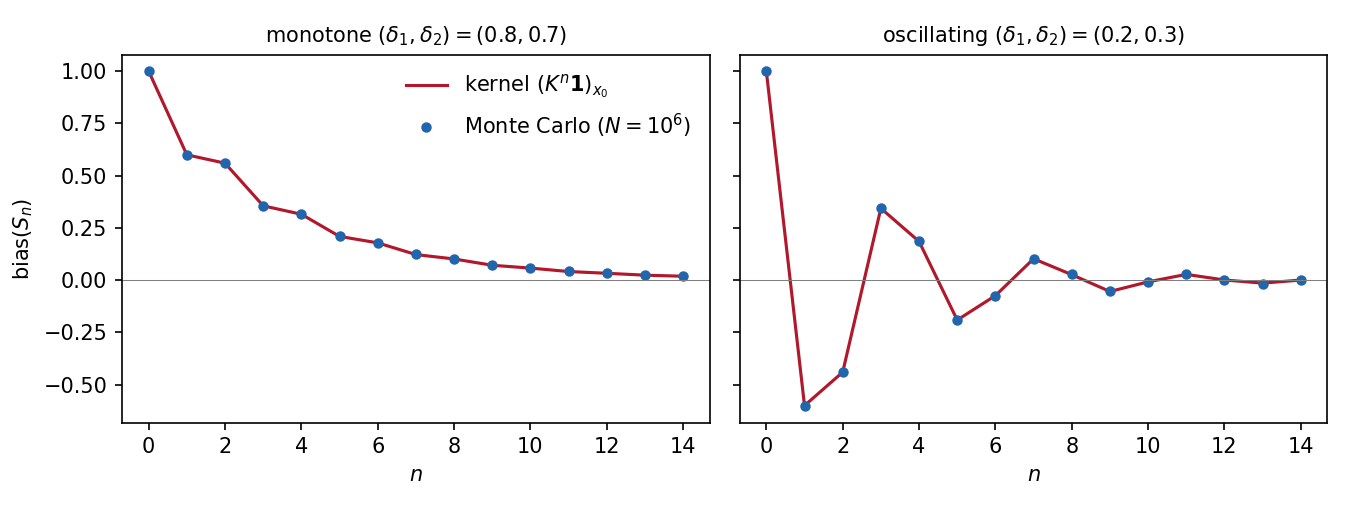
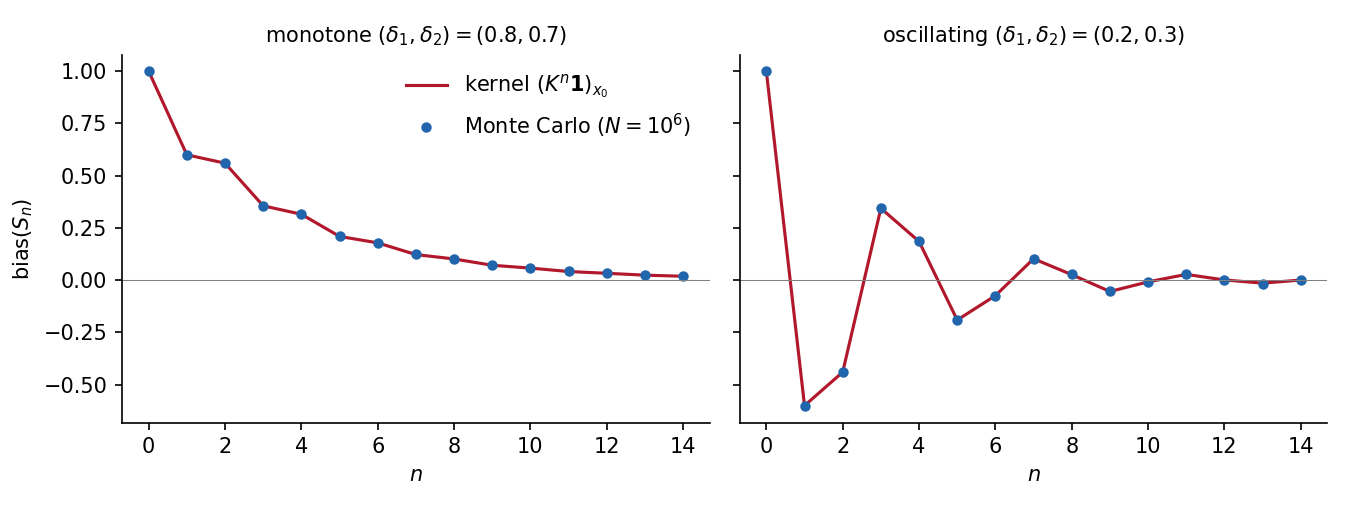
update docs

Changed region(s): [[0.0933, 0.0882, 0.5289, 0.1176], [0.56, 0.0882, 0.9644, 0.1176]]

diff --git a/scripts/prove_rate.py b/scripts/prove_rate.py
@@ -1,36 +1,39 @@
-"""Exact check that max |bias(S_n)| / beta^2 = 1 (default n=3; n=4 is too slow with sympy.solve) over all binary chains with next-bit bias <= beta.
-Param.: d1=(1+b*u)/2, d2=(1+b*v)/2 with b=beta in [0,1], u,v in [-1,1]. bias(S_n) = (K^n 1)_{x0} is a polynomial,
-divisible by b^2; a polynomial on a box attains its extrema at stationary points of the faces/edges/corners (exact enumeration)."""
-import itertools
+"""Exact proof that max |bias(S_n)| = beta^2 for n=3,4 over binary chains with next-bit bias <= beta.
+Param.: d1=(1+b*u)/2, d2=(1+b*v)/2, b=beta in [0,1], u,v in [-1,1]; bias(S_n)=(K^n 1)_{x0} is divisible by b^2.
+f = bias/b^2 is a polynomial; 1-f >= 0 and 1+f >= 0 on the cube is certified by nonnegative Bernstein
+coefficients (exact rationals, adaptive subdivision); f = +-1 identically in beta along a vertex edge (d1=d2=(1+-beta)/2) shows it is attained."""
+import itertools, sys
+from fractions import Fraction as Fr
+from math import comb
 import sympy as sp
 
-b, u, v = X = sp.symbols("b u v")
-lo_hi = {b: (0, 1), u: (-1, 1), v: (-1, 1)}
-d1, d2 = (1 + b * u) / 2, (1 + b * v) / 2
-K = sp.Matrix([[d1, d1 - 1], [1 - d2, -d2]])               # K = P diag(1,-1)
+S = sp.symbols("s t w")                                   # unit-cube coords: b=s, u=2t-1, v=2w-1
+s_, t_, w_ = S
+b, u, v = s_, 2 * t_ - 1, 2 * w_ - 1
+K = sp.Matrix([[(1 + b*u)/2, (1 + b*u)/2 - 1], [1 - (1 + b*v)/2, -(1 + b*v)/2]])    # K = P diag(1,-1)
 
-def extrema(f):
-    vals = []
-    for pat in itertools.product((0, 1, None), repeat=3):    # each variable fixed at lo / hi / free
-        free = [x for x, p in zip(X, pat) if p is None]
-        sub = {x: lo_hi[x][p] for x, p in zip(X, pat) if p is not None}
-        g = f.subs(sub)
-        sols = sp.solve([sp.diff(g, x) for x in free], free, dict=True) if free else [{}]
-        for s in sols:
-            rest = [x for x in free if x not in s]                    # non-isolated stationary set: f is constant on it,
-            for t in itertools.product((.25, .5, .75), repeat=len(rest)):  # so sample it (its ends lie on lower-dim strata)
-                pt = {**sub, **s, **{x: lo_hi[x][0] + q * (lo_hi[x][1] - lo_hi[x][0]) for x, q in zip(rest, t)}}
-                pt = {x: sp.sympify(pt[x]).subs({r: pt[r] for r in rest}) for x in X}
-                if all(sp.im(sp.N(pt[x])) == 0 and lo_hi[x][0] - 1e-12 <= sp.N(pt[x]) <= lo_hi[x][1] + 1e-12 for x in X):
-                    vals.append(sp.N(f.subs(pt), 30))
-    return min(vals), max(vals)
+def bernstein(P):
+    N = [P.degree(x) for x in S]; a = {m: Fr(int(c.p), int(c.q)) for m, c in P.terms()}
+    return {(i, j, k): sum(a.get((l, m, n), 0) * Fr(comb(i, l) * comb(j, m) * comb(k, n), comb(N[0], l) * comb(N[1], m) * comb(N[2], n))
+                           for l in range(i + 1) for m in range(j + 1) for n in range(k + 1))
+            for i in range(N[0] + 1) for j in range(N[1] + 1) for k in range(N[2] + 1)}, N
 
-import sys
-for n in map(int, sys.argv[1:] or ["3"]):
+def nonneg(P, depth=10):
+    c, N = bernstein(P)
+    if min(c.values()) >= 0: return True
+    if any(c[tuple(N[d] * e[d] for d in range(3))] < 0 for e in itertools.product((0, 1), repeat=3)): return False   # corner value < 0
+    if depth == 0: raise RuntimeError("depth exhausted")
+    for h in itertools.product((0, 1), repeat=3):          # split cube into 8 sub-cubes
+        sub = {x: (x + hh) / 2 for x, hh in zip(S, h)}
+        if not nonneg(sp.Poly(P.as_expr().subs(sub, simultaneous=True), *S), depth - 1): return False
+    return True
+
+for n in map(int, sys.argv[1:] or ["3", "4"]):
     for x0 in (0, 1):
         f = sp.cancel(sp.expand((K**n * sp.ones(2, 1))[x0]) / b**2)
-        assert f.is_polynomial(*X)
-        lo, hi = extrema(f)
-        print(f"n={n} x0={x0}: bias(S_n)/beta^2 has exact range [{sp.N(lo, 12)}, {sp.N(hi, 12)}] on the box")
-        assert max(abs(lo), abs(hi)) <= 1 + sp.Float("1e-25") and max(abs(lo), abs(hi)) >= 1 - sp.Float("1e-25")
-print("=> max |bias(S_n)| = beta^2 attained, for n in", list(map(int, sys.argv[1:] or ["3"])))
+        assert f.is_polynomial(*S)
+        ok = all(nonneg(sp.Poly(sp.expand(1 + sg * f), *S)) for sg in (1, -1))
+        top = [(tt, ww) for tt, ww in itertools.product((0, 1), repeat=2) if sp.expand(f.subs({t_: tt, w_: ww})) in (1, -1)]
+        print(f"n={n} x0={x0}: |bias(S_n)| <= beta^2 certified: {ok}; equality for all beta at (t,w) = {top[:2]}")
+        assert ok and top
+print("=> max |bias(S_n)| = beta^2 for n in", sys.argv[1:] or [3, 4])

diff --git a/scripts/rate_m123.py b/scripts/rate_m123.py
@@ -1,0 +1,47 @@
+"""Experiment: max of the per-bit rate rho(K) over order-m binary chains with next-bit bias |b_s| <= beta (m=1,2,3),
+vs the conjectured sharp rate beta^(1/(m+1)) and the nilpotent bounds r_* (root of r^L = beta(1+..+r^(L-1))), (L beta)^(1/L)."""
+import itertools
+import numpy as np
+
+def kernel(b, m):                                     # K(s,s') = ((-1)^x + b_s)/2 for s' = (s_2..s_m, x)
+    S = list(itertools.product((0, 1), repeat=m)); ix = {s: i for i, s in enumerate(S)}; K = np.zeros((2**m, 2**m))
+    for s in S:
+        for x in (0, 1): K[ix[s], ix[s[1:] + (x,)]] = ((-1)**x + b[ix[s]]) / 2
+    return K
+
+rho = lambda b, m: np.abs(np.linalg.eigvals(kernel(b, m))).max()
+rng = np.random.default_rng(0)
+
+def r_star(beta, L):
+    lo, hi = 0, 1
+    for _ in range(80):
+        r = (lo + hi) / 2
+        lo, hi = (r, hi) if r**L < beta * sum(r**k for k in range(L)) else (lo, r)
+    return lo
+
+print(f"{'m':>2} {'beta':>6} {'max rho':>9} {'beta^(1/L)':>11} {'ratio':>6} {'r_*':>7} {'(L beta)^(1/L)':>15}  argmax (b_s/beta)")
+for m in (1, 2, 3):
+    L, n = m + 1, 2**m
+    for beta in (0.01, 0.05, 0.1, 0.3, 0.5, 0.8):
+        best, arg = max(((rho(beta * np.array(v), m), beta * np.array(v)) for v in itertools.product((-1, 1), repeat=n)), key=lambda t: t[0])
+        vbest = best                                   # best over vertices b_s = +-beta
+        for _ in range(60):                            # random-restart hill climbing over the whole box
+            b = rng.uniform(-beta, beta, n); r = rho(b, m); step = beta / 2
+            for _ in range(400):
+                c = np.clip(b + step * rng.standard_normal(n), -beta, beta); rc = rho(c, m)
+                if rc > r: b, r = c, rc
+                else: step *= .985
+            if r > best: best, arg = r, b
+        tag = "vertex" if best <= vbest + 1e-12 else "INTERIOR"
+        print(f"{m:2d} {beta:6.2f} {best:9.5f} {beta**(1/L):11.5f} {best/beta**(1/L):6.3f} {r_star(beta, L):7.4f} {min(1, (L*beta)**(1/L)):15.4f}  {tag} {np.round(arg/beta, 2)}")
+
+# threshold beta_m where the conjecture rho <= beta^(1/L) starts to fail (vertex maximizers, bisection)
+ratio = lambda beta, m: max(rho(beta * np.array(v), m) for v in itertools.product((-1, 1), repeat=2**m)) / beta**(1 / (m + 1))
+print()
+for m in (1, 2, 3):
+    if ratio(0.99, m) <= 1 + 1e-9: print(f"m={m}: ratio = 1 for all tested beta (conjecture holds up to beta=0.99)"); continue
+    lo, hi = 1e-4, 0.99
+    for _ in range(40):
+        mid = (lo + hi) / 2
+        lo, hi = (mid, hi) if ratio(mid, m) <= 1 + 1e-9 else (lo, mid)
+    print(f"m={m}: conjecture rho <= beta^(1/(m+1)) holds for beta <= {lo:.4f} and fails right after (ratio {ratio(hi, m):.4f})")

diff --git a/scripts/xor_trajectories.py b/scripts/xor_trajectories.py
@@ -23,7 +23,7 @@ for ax, (name, (d1, d2)) in zip(axes, configs.items()):
         par ^= x; mc.append(1 - 2 * par.mean())
     ax.plot(exact, "-", c="#b2182b", label="kernel $(K^n\mathbf{1})_{x_0}$")
     ax.plot(mc, "o", c="#2166ac", ms=4, label=f"Monte Carlo ($N=10^6$)")
-    ax.axhline(0, c="gray", lw=.5); ax.set_title(name, fontsize=10); ax.set_xlabel("$n$")
+    ax.spines[["top", "right"]].set_visible(False); ax.axhline(0, c="gray", lw=.5); ax.set_title(name, fontsize=10); ax.set_xlabel("$n$")
     print(f"{name}: max |kernel - MC| = {np.max(np.abs(np.array(mc) - exact)):.1e}  (MC noise ~ {1/np.sqrt(N):.1e})")
 axes[0].set_ylabel("bias$(S_n)$"); axes[0].legend(frameon=False)
 fig.tight_layout(); fig.savefig("figures/xor_trajectories.png", dpi=150)

diff --git a/README.md b/README.md
@@ -1,10 +1,13 @@
+[![License: MIT](https://img.shields.io/badge/License-MIT-yellow.svg)](LICENSE)
+[![Python 3](https://img.shields.io/badge/python-3-blue.svg)](scripts/)
+[![IACR ePrint 2026/2417](https://img.shields.io/badge/IACR%20ePrint-2026%2F2417-b31b1b.svg)](https://eprint.iacr.org/2026/2417)
 # Markovian Parity Correctors
 
 Supplementary material for *Unpredictability from Parity: Understanding Linear Correctors for Markovian Sources* ([IACR ePrint 2026/2417](https://eprint.iacr.org/2026/2417)).
 
 ## Parity for Correcting Bit Balance
 
-The parity operation (XOR) is well-suited to decrease the bias of input bits, as studied in the theory of Boolean functions and commonly adopted in hardware random number generators (Dichtl, Lacharme).
+The parity operation (XOR) is well-suited to decrease the bias of input bits, as studied in the theory of Boolean functions and commonly adopted in hardware random number generators (Dichtl, FSE'07; Lacharme, FSE'08 and IEEE TIT'09).
 
 The bias decays geometrically under independent inputs. We extend this to Markov chains, a more realistic randomness model.
 
@@ -33,18 +36,16 @@ Thus $b_n=\mathrm{bias}(S_n)$ satisfies the Fibonacci-type recursion
 
 $$b_n=\tau b_{n-1}+\lambda b_{n-2},$$
 
-decaying like $\rho(\mathbf K)^n$.
+with two edge cases:
+- **unbiased but correlated**: $b_n=\lambda^{\lceil n/2\rceil}$ with start at $X_0=0$, the rate is only $\sqrt{\lvert\lambda\rvert}$ per bit ($\lambda=2\delta_1-1$ is the correlation of consecutive bits);
+- **independent but biased**: $b_n=\tau^n$, the Piling-up Lemma.
 
-## Scripts
 
-Requires `numpy`, `matplotlib` and `sympy`.
+## Experiments
 
-| script | what it shows |
-|---|---|
-| `scripts/prove_rate.py` | $n=3$: sharp rate $\max\lvert\mathrm{bias}(S_3)\rvert=\beta^2$, by exact polynomial optimization |
-| `scripts/xor_trajectories.py` | $n\mapsto\mathrm{bias}(S_n)$: kernel formula vs Monte Carlo ($10^6$ chains) and the Cayley–Hamilton recursion; writes `figures/xor_trajectories.png` |
+Let $\beta$ bound the bias of each next bit: $\Pr(X_{i+1}=1\mid\text{past})\in[\frac{1-\beta}{2},\frac{1+\beta}{2}]$. The parity bias decays at most like $\rho(\mathbf K)^{n+o(1)}$, so $\rho(\mathbf K)$ is the per-bit rate.
 
-![XOR bias trajectories](figures/xor_trajectories.png)
+For order $m=2,3$, the worst-case rate is $\max\rho(\mathbf K)=C\,\beta^{1/(m+1)}$ with $C>1$ (numerically $C\approx1.05$ for $m=2$ and $C\approx1.04$ for $m=3$; see `scripts/rate_m123.py`).
 
 ## Citation
 
